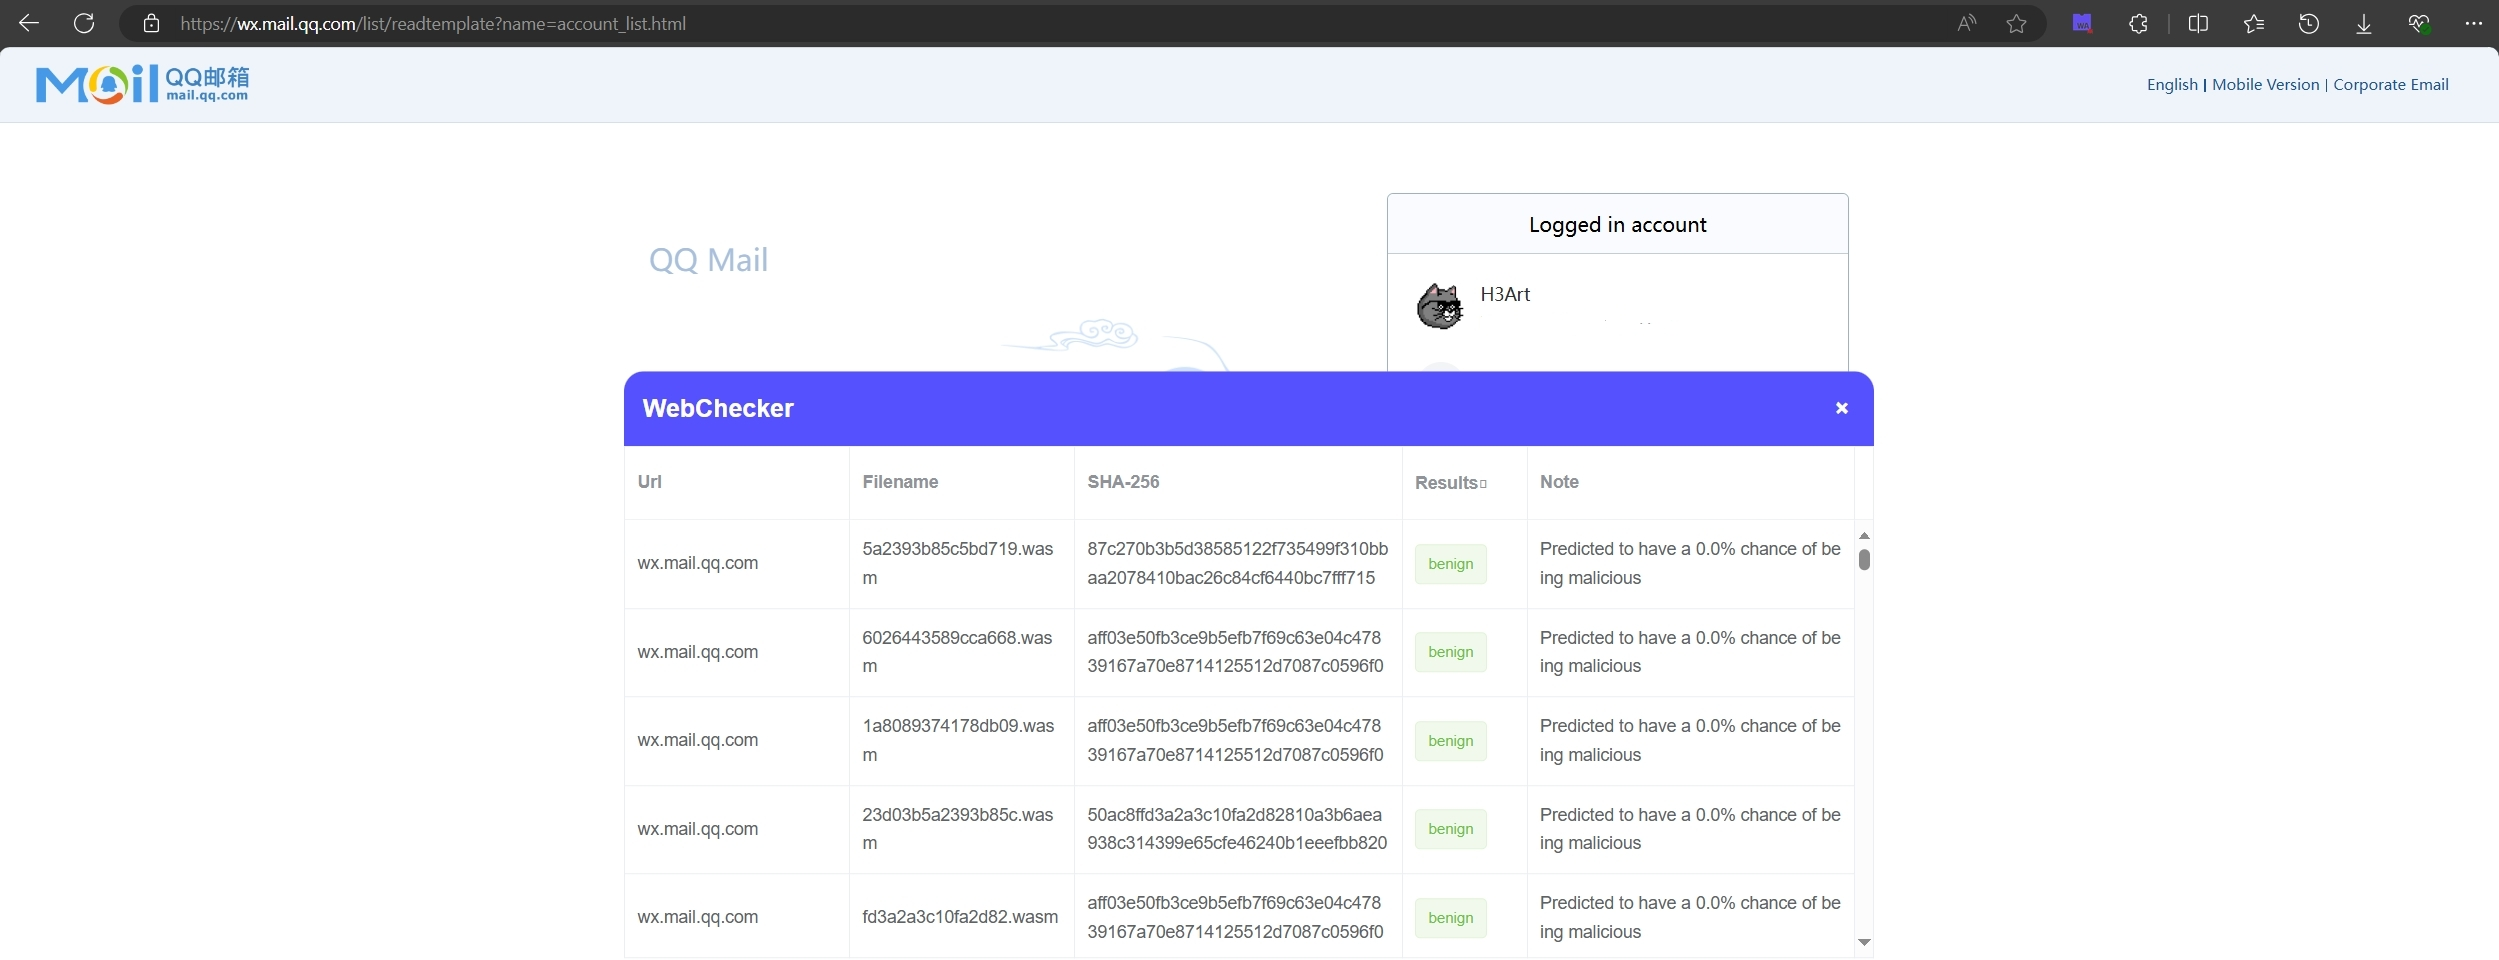
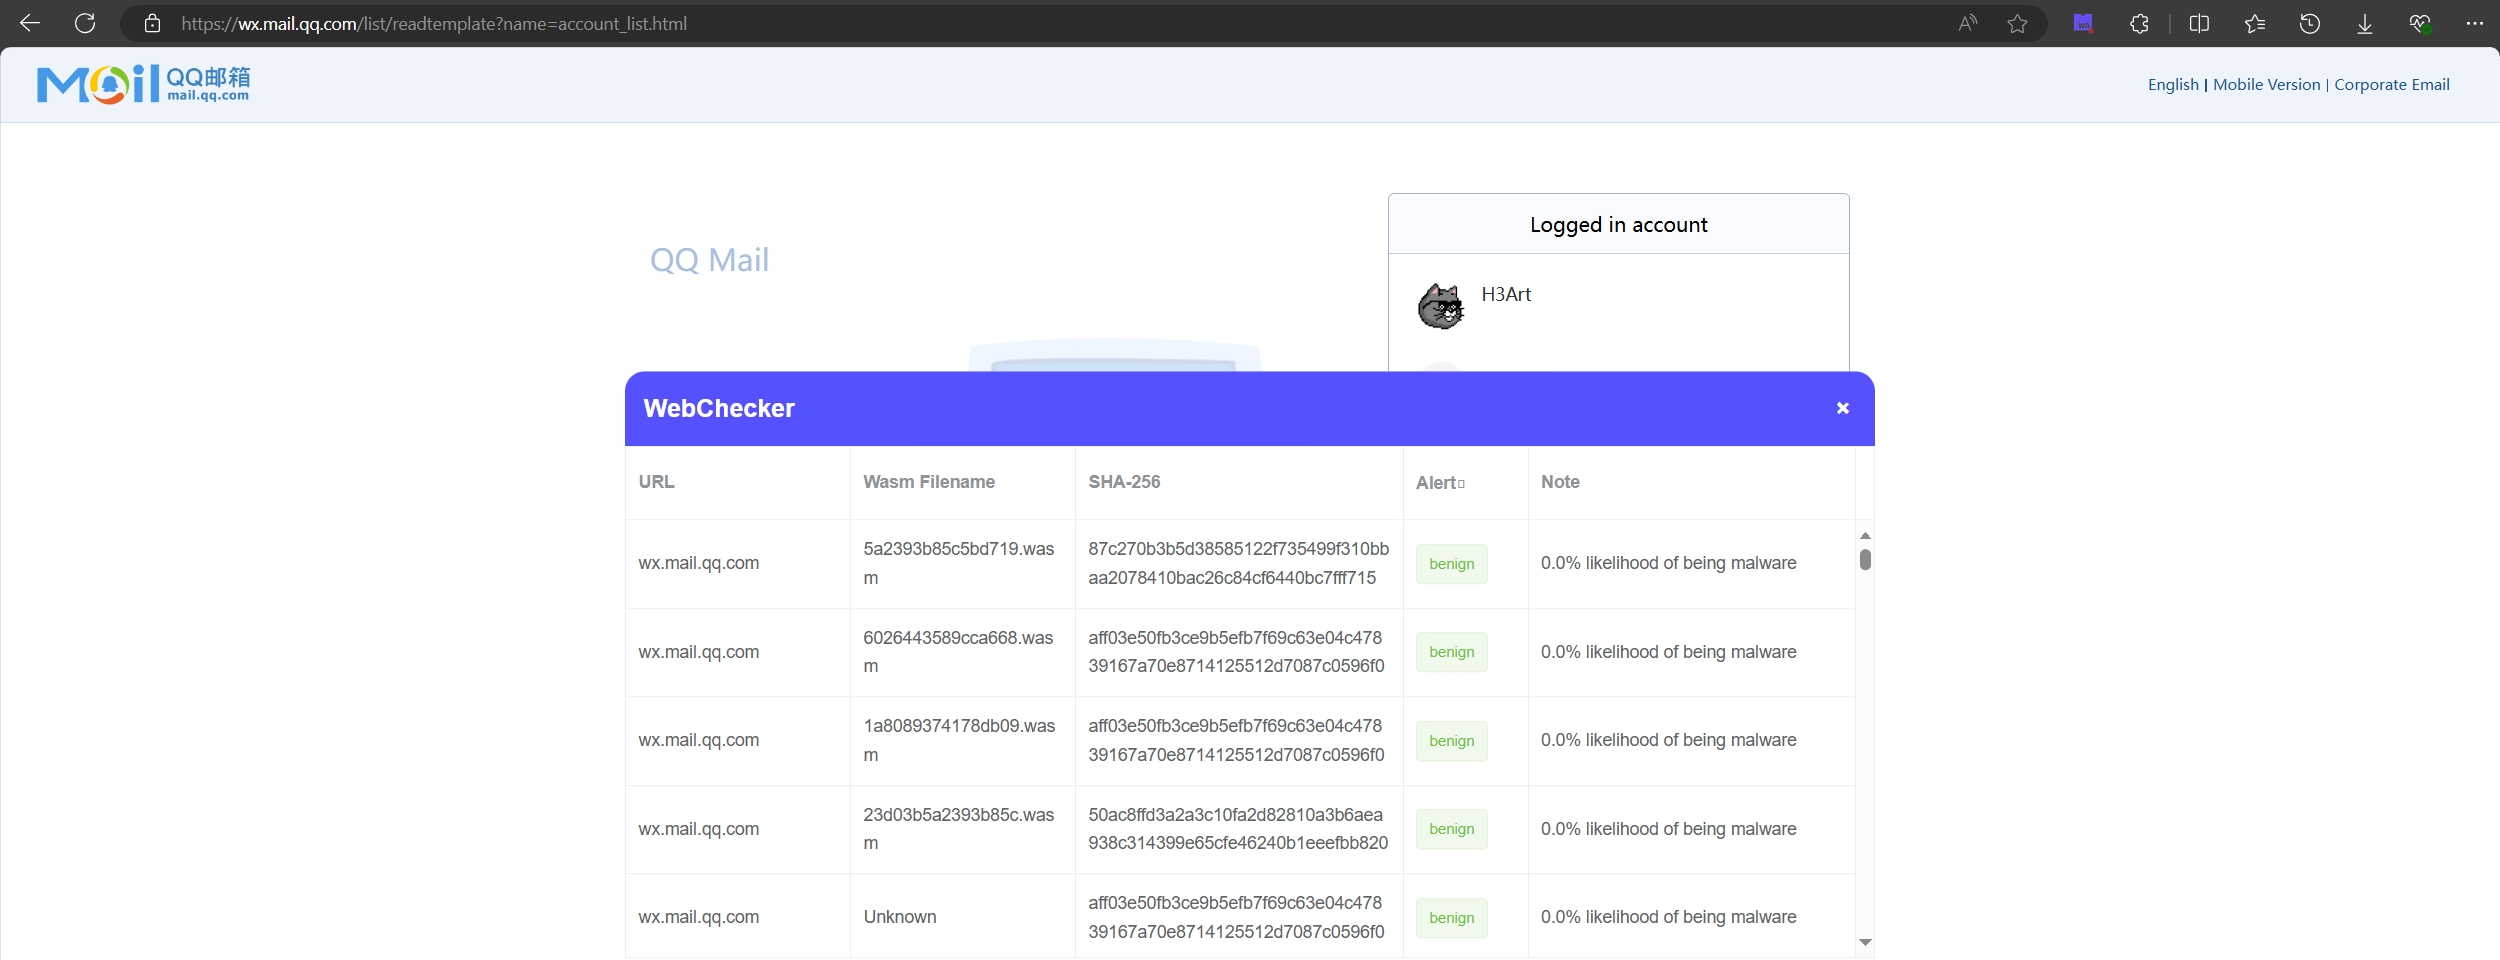
Update README.md and modify the fields name

diff --git a/background.js b/background.js
@@ -103,7 +103,7 @@ function detect_wasm(host) {
         .finally(() => {
             wasm_map.set(host, []);
         })
-        ;
+    ;
 }
 
 function send_detect_res() {
@@ -117,7 +117,7 @@ function send_detect_res() {
         type: "data_to_show"
     }
     //chrome.runtime.sendMessage(data_send);
-    chrome.tabs.query({ active: true, currentWindow: true }, function (tabs) {
+    chrome.tabs.query({active: true, currentWindow: true}, function (tabs) {
         var activeTab = tabs[0];
         chrome.tabs.sendMessage(activeTab.id, data_send);
     });
@@ -139,6 +139,7 @@ function download_wasm(base64Data, filename) {
         }
     });
 }
+
 // 注意：这里假设数据已经是base64编码的字符串
 
 // 监听注入的消息
@@ -155,7 +156,7 @@ chrome.runtime.onMessage.addListener(async function (message, sender, sendRespon
     // 通信测试
     if (message.greeting === "hello") {
         // 发送响应到content script
-        sendResponse({ farewell: "goodbye" });
+        sendResponse({farewell: "goodbye"});
     }
     if (message.type === "FROM_INJECTED_SCRIPT") {
         console.log("Message from injected script:", message.text);
@@ -205,7 +206,7 @@ chrome.runtime.onMessage.addListener(async function (message, sender, sendRespon
 
     if (message.action === 'closeTab') {
         console.log("快关闭网页！")
-        chrome.tabs.query({ active: true, currentWindow: true }, function (tabs) {
+        chrome.tabs.query({active: true, currentWindow: true}, function (tabs) {
             chrome.tabs.remove(tabs[0].id);
         });
     }

diff --git a/panel/src/App.vue b/panel/src/App.vue
@@ -10,13 +10,13 @@
           </div>
         </div>
         <el-table :data="tableData" border style="width: 100%;background-color:#fff; " height="410">
-          <el-table-column prop="host" label="Url" width="180">
+          <el-table-column prop="host" label="URL" width="180">
           </el-table-column>
-          <el-table-column prop="originalFilename" label="Filename" width="180">
+          <el-table-column prop="originalFilename" label="Wasm Filename" width="180">
           </el-table-column>
           <el-table-column prop="filename" label="SHA-256">
           </el-table-column>
-          <el-table-column prop="res" label="Results" width="100"
+          <el-table-column prop="res" label="Alert" width="100"
             :filters="[{ text: 'benign', value: 0 }, { text: 'malicious', value: 1 }]" :filter-method="filterTag"
             filter-placement="bottom-end">
             <template slot-scope="scope">

diff --git a/contentScript.js b/contentScript.js
@@ -1,5 +1,5 @@
 
-const scriptUrlList = ["panel/dist/js/app.820d20b1.js","panel/dist/js/chunk-vendors.d24a5da4.js","script/init.js","script/wrapper.js"];
+const scriptUrlList = ["panel/dist/js/app.0ad1a673.js","panel/dist/js/chunk-vendors.aa3dac99.js","script/init.js","script/wrapper.js"];
 scriptUrlList.forEach(url=>{
     const s = document.createElement('script');
     s.src = chrome.runtime.getURL(url);
